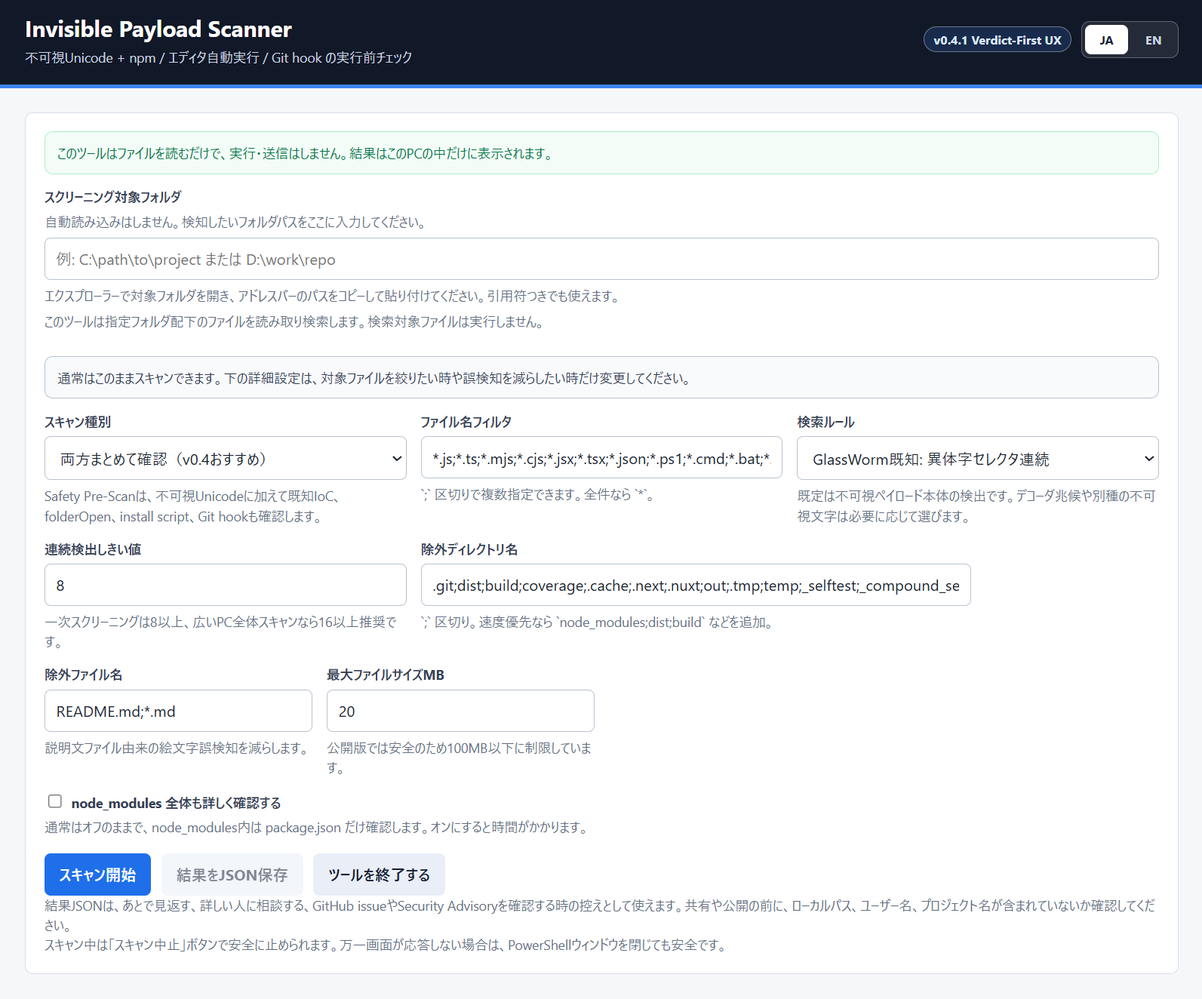
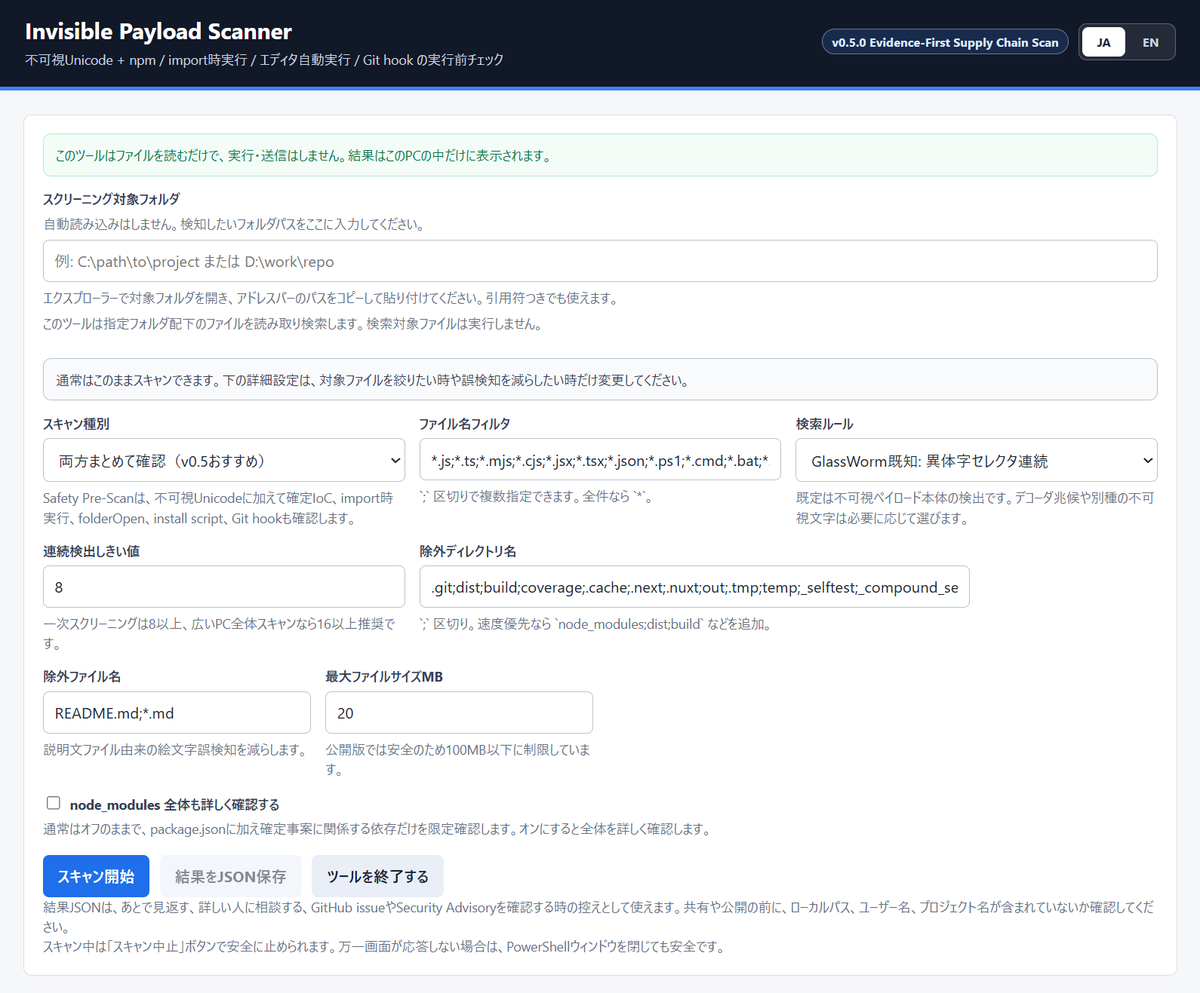
Update to v0.5.0: Evidence-First Supply Chain Scan
- Updated README.md to reflect version 0.5.0 changes and new features.
- Modified Start-InvisiblePayloadScanner.cmd to set the title for v0.5.0.
- Enhanced Start-InvisiblePayloadScanner.ps1 to include new supply chain rules and improve dependency scanning.
- Added new supply chain rules for confirmed npm incidents in rules/v0.5/recent-supply-chain-rules.json.
- Introduced new preview images for the updated UI and removed outdated ones.
- Created release notes for v0.5.0 detailing new features and design boundaries.
- Updated index.html to reflect the new version and improved scanning capabilities.

diff --git a/www/index.html b/www/index.html
@@ -381,9 +381,9 @@
     <div class="title-row">
       <div class="header-main">
         <h1>Invisible Payload Scanner</h1>
-        <div class="subtitle" data-i18n="subtitle">不可視Unicode + npm / エディタ自動実行 / Git hook の実行前チェック</div>
+        <div class="subtitle" data-i18n="subtitle">不可視Unicode + npm / import時実行 / エディタ自動実行 / Git hook の実行前チェック</div>
       </div>
-      <span class="release-badge">v0.4.1 Verdict-First UX</span>
+      <span class="release-badge">v0.5.0 Evidence-First Supply Chain Scan</span>
       <div class="language-switch" aria-label="Language">
         <button id="langJa" type="button" data-lang="ja">JA</button>
         <button id="langEn" type="button" data-lang="en">EN</button>
@@ -405,11 +405,11 @@
         <div class="field span-4">
           <label for="scanMode" data-i18n="scanMode.label">スキャン種別</label>
           <select id="scanMode">
-            <option value="full-safety-pre-scan" data-i18n="scanMode.full">両方まとめて確認（v0.4おすすめ）</option>
+            <option value="full-safety-pre-scan" data-i18n="scanMode.full">両方まとめて確認（v0.5おすすめ）</option>
             <option value="invisible-unicode" data-i18n="scanMode.invisible">不可視Unicodeだけ確認</option>
             <option value="supply-chain-ioc" data-i18n="scanMode.supply">npm / エディタ / AIエージェント設定だけ確認</option>
           </select>
-          <div class="hint" data-i18n="scanMode.hint">Safety Pre-Scanは、不可視Unicodeに加えて既知IoC、folderOpen、install script、Git hookも確認します。</div>
+          <div class="hint" data-i18n="scanMode.hint">Safety Pre-Scanは、不可視Unicodeに加えて確定IoC、import時実行、folderOpen、install script、Git hookも確認します。</div>
         </div>
         <div class="field span-4">
           <label for="filter" data-i18n="filter.label">ファイル名フィルタ</label>
@@ -453,7 +453,7 @@
             <input id="supplyNodeModulesFullScan" type="checkbox" style="width: auto; margin-right: 6px;">
             <span data-i18n="nodeModules.label">node_modules 全体も詳しく確認する</span>
           </label>
-          <div class="hint" data-i18n="nodeModules.hint">通常はオフのままで、node_modules内は package.json だけ確認します。オンにすると時間がかかります。</div>
+          <div class="hint" data-i18n="nodeModules.hint">通常はオフのままで、package.jsonに加え確定事案に関係する依存だけを限定確認します。オンにすると全体を詳しく確認します。</div>
         </div>
         <div id="customPatternWrap" class="field span-12 hidden">
           <label for="customPattern" data-i18n="customPattern.label">カスタム正規表現</label>
@@ -523,7 +523,7 @@
 
     const I18N = {
       ja: {
-        "subtitle": "不可視Unicode + npm / エディタ自動実行 / Git hook の実行前チェック",
+        "subtitle": "不可視Unicode + npm / import時実行 / エディタ自動実行 / Git hook の実行前チェック",
         "rootPath.label": "スクリーニング対象フォルダ",
         "rootPath.hint1": "自動読み込みはしません。検知したいフォルダパスをここに入力してください。",
         "rootPath.placeholder": "例: C:\\path\\to\\project または D:\\work\\repo",
@@ -531,10 +531,10 @@
         "rootPath.hint3": "このツールは指定フォルダ配下のファイルを読み取り検索します。検索対象ファイルは実行しません。",
         "notice.default": "通常はこのままスキャンできます。下の詳細設定は、対象ファイルを絞りたい時や誤検知を減らしたい時だけ変更してください。",
         "scanMode.label": "スキャン種別",
-        "scanMode.full": "両方まとめて確認（v0.4おすすめ）",
+        "scanMode.full": "両方まとめて確認（v0.5おすすめ）",
         "scanMode.invisible": "不可視Unicodeだけ確認",
         "scanMode.supply": "npm / エディタ / AIエージェント設定だけ確認",
-        "scanMode.hint": "Safety Pre-Scanは、不可視Unicodeに加えて既知IoC、folderOpen、install script、Git hookも確認します。",
+        "scanMode.hint": "Safety Pre-Scanは、不可視Unicodeに加えて確定IoC、import時実行、folderOpen、install script、Git hookも確認します。",
         "filter.label": "ファイル名フィルタ",
         "filter.hint": "`;` 区切りで複数指定できます。全件なら `*`。",
         "rule.label": "検索ルール",
@@ -554,7 +554,7 @@
         "maxFileSize.label": "最大ファイルサイズMB",
         "maxFileSize.hint": "公開版では安全のため100MB以下に制限しています。",
         "nodeModules.label": "node_modules 全体も詳しく確認する",
-        "nodeModules.hint": "通常はオフのままで、node_modules内は package.json だけ確認します。オンにすると時間がかかります。",
+        "nodeModules.hint": "通常はオフのままで、package.jsonに加え確定事案に関係する依存だけを限定確認します。オンにすると全体を詳しく確認します。",
         "customPattern.label": "カスタム正規表現",
         "buttons.scan": "スキャン開始",
         "buttons.export": "結果をJSON保存",
@@ -655,7 +655,7 @@
         "progress.counts": "候補 {candidateFiles} 件 / 走査 {scannedFiles} 件 / 検出 {matchCount} 件"
       },
       en: {
-        "subtitle": "Pre-run check for invisible Unicode, npm, editor auto-run, and Git hooks",
+        "subtitle": "Pre-run check for invisible Unicode, npm import-time payloads, editor auto-run, and Git hooks",
         "rootPath.label": "Folder to screen",
         "rootPath.hint1": "Nothing is loaded automatically. Paste the folder path you want to check.",
         "rootPath.placeholder": "Example: C:\\path\\to\\project or D:\\work\\repo",
@@ -663,10 +663,10 @@
         "rootPath.hint3": "This tool reads and searches files under the selected folder. It does not execute target files.",
         "notice.default": "You can usually scan with the defaults. Change advanced settings only when you need to narrow the target or reduce noise.",
         "scanMode.label": "Scan type",
-        "scanMode.full": "Check both together (v0.4 recommended)",
+        "scanMode.full": "Check both together (v0.5 recommended)",
         "scanMode.invisible": "Invisible Unicode only",
         "scanMode.supply": "npm / editor / AI-agent settings only",
-        "scanMode.hint": "Safety Pre-Scan checks known IOCs, folderOpen tasks, install scripts, and Git hooks in addition to invisible Unicode.",
+        "scanMode.hint": "Safety Pre-Scan checks confirmed IOCs, import-time payloads, folderOpen tasks, install scripts, and Git hooks in addition to invisible Unicode.",
         "filter.label": "Filename filter",
         "filter.hint": "Separate multiple patterns with `;`. Use `*` for all files.",
         "rule.label": "Search rule",
@@ -686,7 +686,7 @@
         "maxFileSize.label": "Max file size MB",
         "maxFileSize.hint": "The public build caps this at 100 MB for safety.",
         "nodeModules.label": "Scan all of node_modules in detail",
-        "nodeModules.hint": "Usually leave this off. With it off, node_modules only checks package.json files. Turning it on can take longer.",
+        "nodeModules.hint": "Usually leave this off. It checks package.json plus narrowly targeted dependencies from confirmed incidents; turning it on scans all dependencies in detail.",
         "customPattern.label": "Custom regular expression",
         "buttons.scan": "Start scan",
         "buttons.export": "Save results as JSON",

diff --git a/README.md b/README.md
@@ -4,7 +4,7 @@
 
 外部に送信せず、あなたのPCの中だけで動きます。コマンド操作は不要。ダウンロードして展開し、`.cmd` をダブルクリックするだけで、ブラウザの画面から確認できます。
 
-![Invisible Payload Scanner：v0.4.1 の起動画面](docs/preview.png)
+![Invisible Payload Scanner：v0.5.0 の起動画面](docs/preview.png)
 
 英語版は [README.en.md](README.en.md)。安全設計と報告範囲は [SECURITY.ja.md](SECURITY.ja.md)（英語版 [SECURITY.md](SECURITY.md)）にまとめています。
 
@@ -31,7 +31,7 @@
 
 ## 使い方（3ステップ）
 
-1. **ダウンロードして展開** — GitHubのReleasesから最新の `InvisiblePayloadScanner-v0.4.1.zip` を入手して展開します。**まだ `npm install`・ビルド・起動はしないでください。**
+1. **ダウンロードして展開** — GitHubのReleasesから最新の `InvisiblePayloadScanner-v0.5.0.zip` を入手して展開します。**まだ `npm install`・ビルド・起動はしないでください。**
 2. **`Start-InvisiblePayloadScanner.cmd` をダブルクリック** — ローカルのWeb UIが起動し、ブラウザが開きます。
    - ⚠ **「WindowsによってPCが保護されました」**（SmartScreen）が出ることがあります。これは、同梱のローカルスクリプトを動かすための表示です。**「詳細情報」→「実行」** で進めてください。この扱いは、このツール同梱の `.ps1` だけに限ること。**出所不明の `.cmd` / `.ps1` に同じことをしないでください。**
 3. **フォルダを選んでスキャン** — 確認したいプロジェクトフォルダのパスを貼り付けて `スキャン開始` を押します。フォルダの大きさに応じて数秒〜で**判定カード**が出ます。
@@ -41,9 +41,9 @@
 
 ---
 
-## 判定の見方（v0.4.1 Verdict-First）
+## 判定の見方（v0.5.0 Evidence-First Supply Chain Scan）
 
-![Invisible Payload Scanner：判定カードの表示例](docs/preview-verdict.png)
+![Invisible Payload Scanner：v0.5.0 Supply Chain Scanの検出例](docs/preview-SupplyChainScan.png)
 
 スキャンが終わると、まず大きな**判定カード**が出ます。詳細の表より先に、「**で、このフォルダは触っていいの？**」に答えます。
 
@@ -65,9 +65,14 @@
 
 ---
 
-## v0.4.1「Verdict-First UX」の新しいところ
+## v0.5.0「Evidence-First Supply Chain Scan」の新しいところ
 
-v0.4.1は、v0.4.0の判定カード、スキャン中止、SHA-256確認、download-and-execute検出をそのまま引き継ぎ、巨大なモデルファイルを含むフォルダでもスキャンが途中停止しないよう修正した安定化版です。
+v0.5.0は、v0.4.1までの判定カード、スキャン中止、SHA-256確認、download-and-execute検出を引き継ぎ、2026年の確定したnpm供給網事案を追加確認します。install時に動くものだけでなく、**importした時に動く**型も対象です。
+
+- **確定版の照合** — `package.json` とlockfileから、公開済みの侵害パッケージ・バージョンを確認します。パッケージ名だけでは危険判定にしません。
+- **依存コードの限定確認** — 通常は`node_modules`全体を読まず、確定事案に関係する依存パッケージだけを限定読取りします。公開済みの固有IOCが実際に一致した時だけ危険として表示します。
+- **import時実行への対応** — `npm install --ignore-scripts`でも防げない型があるため、install scriptの有無だけで安全とは判定しません。
+- **v0.4.1の安定化を継承** — 数GB級モデルファイルを含むフォルダでの停止防止、絵文字付近の抜粋、マスク済み診断表示もそのまま含みます。
 
 - **巨大モデルファイルの安全なスキップ** — `.safetensors` や `.pt` などの数GB級ファイルが混ざっていても、最大ファイルサイズ判定で先にスキップし、候補ファイル列挙中のエラーを防ぎます。
 - **不可視文字周辺の絵文字対応** — 不可視Unicodeの近くに絵文字などの補助面Unicodeがあっても、検出結果の抜粋生成で失敗しないようにしました。
@@ -85,7 +90,7 @@ v0.4.1は、v0.4.0の判定カード、スキャン中止、SHA-256確認、down
 展開する前に、PowerShellで次の1行を実行してください（ファイル名はダウンロードしたバージョンに合わせます）:
 
 ```powershell
-Get-FileHash .\InvisiblePayloadScanner-v0.4.1.zip -Algorithm SHA256
+Get-FileHash .\InvisiblePayloadScanner-v0.5.0.zip -Algorithm SHA256
 ```
 
 表示された英数字が、GitHub Releaseページに記載された **zip用SHA-256** と同じなら本物です。違う場合は使わずに、Releaseページからダウンロードし直してください。
@@ -102,7 +107,7 @@ Get-FileHash .\InvisiblePayloadScanner-v0.4.1.zip -Algorithm SHA256
 - **AIエージェント向けの指示ファイル** — `CLAUDE.md` / `AGENTS.md` / `.cursor/rules` など
 - **危険な「取得して実行」** — `curl|bash`、`iwr|iex`、`powershell -enc`、LOLBin（v0.4.0で追加）
 - **CI／Git連携の危険コマンド候補** — GitHub Actions workflow、`.husky/` / `.githooks/`
-- **既知のnpmサプライチェーンIoC** — 公開された攻撃の痕跡（例：2026年5月の TanStack 事案のIoC ほか）
+- **既知のnpmサプライチェーンIoC** — 公開された攻撃の痕跡（TanStack、Keyv/Cacheable、AsyncAPI、Joyfillなどの確定IOC）
 
 ## これは何ではないか（正直に）
 
@@ -313,6 +318,12 @@ v0.4の追加ルールは `rules/v0.4/` にあります。
 
 safe-patternsは警告を完全に消すものではありません。危険なdownload-and-execute、shell、base64/encoded payload、credential harvestingらしい語が同時に見つかる場合は、safe-patternsより危険判定を優先します。
 
+v0.5の追加ルールは `rules/v0.5/` にあります。
+
+- `recent-supply-chain-rules.json`: 2026年5月以降に公開されたnpm供給網事案の**確定したパッケージ・バージョン**と、公開された高特異度IOCを照合します。パッケージ名だけでは危険判定にしません。
+- 通常設定でも、確定事案に関係する依存パッケージ配下だけは、`package.json`以外のJavaScriptを限定読取りします。ただし危険として出すのは、公開済みの固有IOCが実際に一致した時だけです。全`node_modules`走査とは異なり、一般的な依存コードを一律に警告しません。
+- import時に動く事例も対象です。`npm install --ignore-scripts`だけでは防げないため、lockfileの確定版一致はインストール前の停止材料に、展開済み依存内のIOC一致は実行済み環境の確認材料になります。
+
 この機能は、パッケージ名だけで悪性と断定しません。`@tanstack/` のような名前空間一致は注意表示であり、危険度が上がるのは既知の悪性バージョン、既知IoC文字列、自動実行設定、install scriptの危険語などが重なった場合です。
 
 v0.3では、単独の文字列一致よりも組み合わせを重視します。たとえば `.vscode/tasks.json` や `.cursor/tasks.json` の `runOn: folderOpen` が `npm install` / `npm i` / `pnpm i` / `yarn install` / `bun i` などを起動し、同じプロジェクトの `package.json` に `prepare` / `postinstall` などのinstall lifecycle scriptがある場合は、複合リスクとして追加表示します。
@@ -427,16 +438,17 @@ U+FE0F U+FE0F U+FE0F U+FE0F
 
 ## リリースの種類 / どれを使えばいい？
 
-通常は最新の **v0.4.1 Verdict-First UX** を使ってください。Web UIでは、まず `両方まとめて確認（v0.4おすすめ）` のまま使い、不可視Unicodeだけ確認したい時にスキャン種別を切り替えます。
+通常は最新の **v0.5.0 Evidence-First Supply Chain Scan（根拠重視のサプライチェーン事前チェック）** を使ってください。Web UIでは、まず `両方まとめて確認（v0.5おすすめ）` のまま使い、不可視Unicodeだけ確認したい時にスキャン種別を切り替えます。
 
-- **v0.4.1 Verdict-First UX（推奨）** — v0.4.0の機能に加え、数GB級モデルファイルを含むフォルダでのスキャン停止を修正。
+- **v0.5.0 Evidence-First Supply Chain Scan（推奨）** — 確定npm供給網事案の版数・IOC照合と、対象依存だけの限定確認を追加。import時実行の型も確認対象。
+- **v0.4.1 Verdict-First UX（履歴）** — v0.4.0の機能に加え、数GB級モデルファイルを含むフォルダでのスキャン停止を修正。
 - **v0.4.0 Verdict-First UX（履歴）** — 検出結果を 🔴🟡🟢 の判定と「次の一手」で表示。スキャン中止、SHA-256確認、download-and-execute検出を追加。ただし、数GB級モデルファイルを含むフォルダでスキャンが止まるバグがあり、v0.4.1で修正しました。
 - **v0.3.1 Context-Aware Triage** — 検出シグナルと対応優先度を分けて表示。UIは日本語/英語を切り替え可能。
 - **v0.3.0 Contagious Interview Pre-Scan** — `npm install`・エディタ・AIエージェント・Git hook 周辺の自動実行設定を確認。
 - **v0.2.0 Safety Pre-Scan** — 不可視Unicodeに加え、npmサプライチェーンIoC・自動実行設定を確認。
 - **v0.1.0 Classic** — 不可視Unicode（GlassWorm系・Trojan Source系）専用の軽量版。
 
-既存の `v0.1.0` はそのまま残し、リリース済みzipは差し替えません。新しい確認範囲と巨大ファイル修正が必要な場合は `v0.4.1` 以降を使ってください。
+既存の `v0.1.0` はそのまま残し、リリース済みzipは差し替えません。今回のnpm供給網事案まで含めて確認したい場合は `v0.5.0` 以降を使ってください。
 
 ---
 

diff --git a/README.en.md b/README.en.md
@@ -4,7 +4,7 @@
 
 It sends nothing to the internet; everything runs on your own PC. No command line needed: download, unzip, and double-click a `.cmd` to check from a browser screen.
 
-![Invisible Payload Scanner: v0.4.1 launch screen](docs/preview.png)
+![Invisible Payload Scanner: v0.5.0 launch screen](docs/preview.png)
 
 Japanese version: [README.md](README.md). See [SECURITY.md](SECURITY.md) (Japanese: [SECURITY.ja.md](SECURITY.ja.md)) for the security policy and reporting scope.
 
@@ -31,7 +31,7 @@ Interview tasks, sample code, a repo a friend sent, a project you had an AI gene
 
 ## How to use it (3 steps)
 
-1. **Download & unzip** the latest `InvisiblePayloadScanner-v0.4.1.zip` from Releases. **Don't `npm install`, build, or run it yet.**
+1. **Download & unzip** the latest `InvisiblePayloadScanner-v0.5.0.zip` from Releases. **Don't `npm install`, build, or run it yet.**
 2. **Double-click `Start-InvisiblePayloadScanner.cmd`.** A local Web UI opens in your browser.
    - ⚠ Windows SmartScreen ("Windows protected your PC") may appear. That is expected for running this bundled local script — click **More info → Run anyway**. Limit this only to this tool's bundled `.ps1`; never do the same for `.cmd` / `.ps1` files of unknown origin. (The `.cmd` launcher uses `-ExecutionPolicy Bypass` solely to run the bundled `Start-InvisiblePayloadScanner.ps1`.)
 3. **Pick a folder and scan.** Paste the path of the project folder you want to check and press **Scan**. A **verdict card** appears within a few seconds (depending on folder size).
@@ -41,9 +41,9 @@ Interview tasks, sample code, a repo a friend sent, a project you had an AI gene
 
 ---
 
-## Reading the verdict (v0.4.1 Verdict-First)
+## Reading the verdict (v0.5.0 Evidence-First Supply Chain Scan)
 
-![Invisible Payload Scanner: verdict card example](docs/preview-verdict.png)
+![Invisible Payload Scanner: v0.5.0 Supply Chain Scan findings example](docs/preview-SupplyChainScan.png)
 
 When the scan finishes, a large **verdict card** appears first — before any table — answering "so, is this folder safe to touch?"
 
@@ -62,9 +62,14 @@ To stop a running scan, press **Stop scan** next to the progress gauge (the serv
 
 ---
 
-## What's new in v0.4.1 "Verdict-First UX"
+## What's new in v0.5.0 "Evidence-First Supply Chain Scan"
 
-v0.4.1 keeps the v0.4.0 verdict card, scan cancel, SHA-256 verification, and download-and-execute detection, and adds stability fixes for folders that contain very large model files.
+v0.5.0 keeps the verdict card, scan cancel, SHA-256 verification, download-and-execute detection, and large-file stability fixes from v0.4.1. It adds narrowly scoped checks for confirmed 2026 npm supply-chain incidents, including payloads that run when a module is **imported**, not only while dependencies are installed.
+
+- **Confirmed-version matching** — checks `package.json` and lockfiles against publicly disclosed affected package versions. A package name on its own is not treated as malicious.
+- **Targeted dependency-source checks** — normally the scanner does not read all of `node_modules`; it reads only dependency families named by confirmed incident rules, and reports malicious code only if a published high-specificity IOC actually matches.
+- **Import-time payload coverage** — `npm install --ignore-scripts` is not enough for packages that run an implant when imported, so the scanner does not equate a missing lifecycle script with safety.
+- **v0.4.1 stability retained** — safe skipping of multi-GB model files, robust Unicode snippets near emoji, and masked PowerShell diagnostics remain included.
 
 - **Safe skipping for large model files** — multi-GB files such as `.safetensors` or `.pt` are skipped by the maximum-file-size check before binary sampling, avoiding scan failures while candidate files are being counted.
 - **Supplementary Unicode near invisible matches** — snippets now handle emoji and other supplementary Unicode characters near invisible-Unicode findings.
@@ -82,7 +87,7 @@ v0.4.1 keeps the v0.4.0 verdict card, scan cancel, SHA-256 verification, and dow
 Before extracting, run this one line in PowerShell (adjust the file name to the version you downloaded):
 
 ```powershell
-Get-FileHash .\InvisiblePayloadScanner-v0.4.1.zip -Algorithm SHA256
+Get-FileHash .\InvisiblePayloadScanner-v0.5.0.zip -Algorithm SHA256
 ```
 
 If the displayed value matches the **zip SHA-256** listed on the GitHub Release page, the file is authentic. If it does not match, do not use it — download it again from the Release page. The startup PowerShell window also prints `Script SHA-256:` for the extracted `Start-InvisiblePayloadScanner.ps1` that is actually running. This is a different value from the zip archive's SHA-256. Code signing (Authenticode) is a future consideration; comparison against the SHA-256 listed on the GitHub Release is the current verification method.
@@ -97,7 +102,7 @@ If the displayed value matches the **zip SHA-256** listed on the GitHub Release 
 - **AI-agent instruction files** — `CLAUDE.md` / `AGENTS.md` / `.cursor/rules`
 - **Dangerous "fetch and run"** — `curl|bash`, `iwr|iex`, `powershell -enc`, LOLBins (new in v0.4.0)
 - **CI / Git danger commands** — GitHub Actions workflows, `.husky/` / `.githooks/`
-- **Known npm supply-chain IoCs** — traces from disclosed attacks (e.g. the May 2026 TanStack incident)
+- **Known npm supply-chain IoCs** — confirmed indicators from disclosed attacks, including TanStack, Keyv/Cacheable, AsyncAPI, and Joyfill
 
 ## What it is NOT (honestly)
 
@@ -268,6 +273,12 @@ v0.4 supplemental rules live under `rules/v0.4/`.
 
 Safe patterns never override remote download-and-execute, shell, encoded payload, or credential-harvesting indicators.
 
+v0.5 supplemental rules live under `rules/v0.5/`.
+
+- `recent-supply-chain-rules.json`: checks confirmed package-version pairs and published high-specificity IOCs from npm supply-chain incidents disclosed since May 2026. A package name alone is not a malicious finding.
+- With the normal setting, the scanner reads JavaScript below only the dependency families named by these confirmed-incident rules, in addition to `package.json`. It reports malicious dependency code only when a published IOC actually matches; it does not warn on ordinary dependency source en masse.
+- The rules also cover import-time payloads. A confirmed lockfile match is an install-before-stop signal; an IOC match inside an installed dependency is evidence to investigate an environment that may already have loaded the package.
+
 Package names alone are not treated as proof of compromise. Namespace matches such as `@tanstack/` are prompts for review. Stronger warnings require known affected versions, known IOC strings, auto-run settings, or install-script risk terms.
 
 v0.3 also adds compound findings. For example, if `.vscode/tasks.json` or `.cursor/tasks.json` runs `npm install`, `npm i`, `pnpm i`, `yarn install`, or `bun i` on `folderOpen` and the same project has `prepare` / `postinstall` lifecycle scripts, the scanner reports the combination separately.
@@ -302,16 +313,17 @@ Recommended triage:
 
 ## Releases / which one should I use?
 
-Normally, use the latest **v0.4.1 Verdict-First UX**. In the Web UI, keep `両方まとめて確認（v0.4おすすめ）` (check both — recommended) selected, and switch the scan type only when you want invisible-Unicode-only checks.
+Normally, use the latest **v0.5.0 Evidence-First Supply Chain Scan**. In the Web UI, keep `両方まとめて確認（v0.5おすすめ）` (check both — recommended) selected, and switch the scan type only when you want invisible-Unicode-only checks.
 
-- **v0.4.1 Verdict-First UX (recommended)** — v0.4.0 plus a fix for scan failures in folders containing multi-GB model files.
+- **v0.5.0 Evidence-First Supply Chain Scan (recommended)** — adds confirmed npm incident version/IOC matching and targeted dependency inspection, including import-time payload patterns.
+- **v0.4.1 Verdict-First UX (historical)** — v0.4.0 plus a fix for scan failures in folders containing multi-GB model files.
 - **v0.4.0 Verdict-First UX (historical)** — verdict + next steps, scan cancel, SHA-256 verification, download-and-execute detection. It had a bug that could stop scans in folders containing multi-GB model files; v0.4.1 fixes it.
 - **v0.3.1 Context-Aware Triage** — separates the detection signal from response priority. The UI can switch between Japanese and English.
 - **v0.3.0 Contagious Interview Pre-Scan** — checks auto-run settings around npm install, editors, AI agents, and Git hooks.
 - **v0.2.0 Safety Pre-Scan** — invisible Unicode plus npm supply-chain IoCs and auto-run settings.
 - **v0.1.0 Classic** — lightweight, invisible-Unicode only (GlassWorm-style and Trojan Source-style).
 
-Existing `v0.1.0` release assets are kept as-is and not replaced. Use `v0.4.1` or later when you need the newer checks and the large-file scan fix.
+Existing `v0.1.0` release assets are kept as-is and not replaced. Use `v0.5.0` or later when you need the confirmed npm incident checks as well as the large-file scan fix.
 
 ---
 

diff --git a/docs/release-notes-v0.5.0.md b/docs/release-notes-v0.5.0.md
@@ -1,0 +1,15 @@
+# Invisible Payload Scanner v0.5.0
+
+v0.5.0 adds narrowly scoped protection for confirmed npm supply-chain incidents reported after the prior IOC baseline.
+
+## Changes
+
+- Adds a v0.5 rule pack for confirmed Keyv/Cacheable, AsyncAPI, Joyfill, Red Hat Miasma subset, and Alibaba-targeted campaign indicators.
+- Adds exact package-version matching for manifests and lockfiles. Package names alone remain advisory-free unless they are part of a confirmed version rule.
+- Adds targeted dependency-source scanning: with the normal `node_modules` setting, the scanner reads JavaScript only beneath package families named by the v0.5 rules, and reports a malicious-code finding only when a published high-specificity IOC is present.
+- Covers both install-time (`preinstall`) and import-time payload delivery. This distinguishes incidents where `--ignore-scripts` would not prevent an implant from running when a module is loaded.
+- Extends the self-test with Keyv, AsyncAPI, and Joyfill fixtures, including a check that targeted dependency source is inspected without enabling a full `node_modules` scan.
+
+## Design boundary
+
+This release does not label a package as dangerous from a namespace or a generic obfuscation term alone. It also does not claim that provenance, OIDC publishing, or a clean package name proves safety. It is a local, static pre-run check for documented evidence; it does not replace incident response, EDR, or a dependency-security service.
